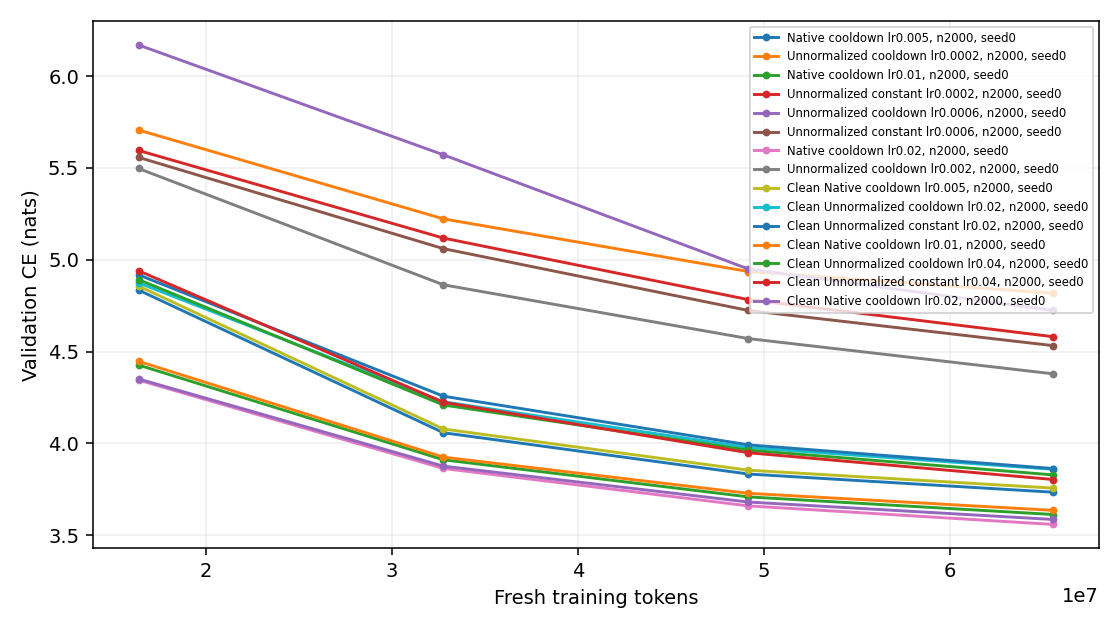
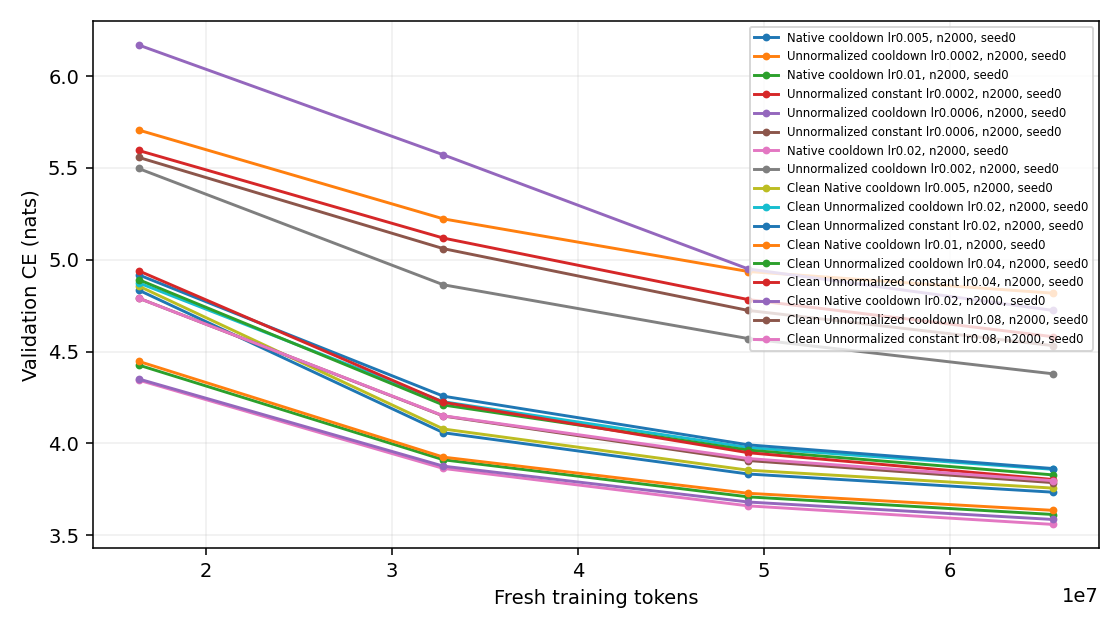
Update live Muon experiment results

diff --git a/research/unnormalized_muon/RESULTS.md b/research/unnormalized_muon/RESULTS.md
@@ -13,6 +13,8 @@ One B300 per job. CE is token cross-entropy (nats); lower is better. Rows with d
 | um-clean-grid-01-1-cooldown-lr0p04 | Clean Unnormalized cooldown | 2000 | 0 | 0.04 | 3.828638 | 1.160576 | — | 151.79 |
 | um-clean-grid-01-2-constant-lr0p04 | Clean Unnormalized constant | 2000 | 0 | 0.04 | 3.803687 | 1.153028 | — | 146.02 |
 | um-clean-grid-02-0-normalized-lr0p02 | Clean Native cooldown | 2000 | 0 | 0.02 | 3.586015 | 1.087084 | — | 147.46 |
+| um-clean-grid-02-1-cooldown-lr0p08 | Clean Unnormalized cooldown | 2000 | 0 | 0.08 | 3.786540 | 1.147820 | — | 152.80 |
+| um-clean-grid-02-2-constant-lr0p08 | Clean Unnormalized constant | 2000 | 0 | 0.08 | 3.797298 | 1.151089 | — | 148.10 |
 | um-fw-diagnostic-001 | FW backtracking | 64 | 0 | 0.02 | 6.469995 | 1.960658 | — | 95.07 |
 | um-fw-diagnostic-002 | FW backtracking | 64 | 0 | 0.02 | 6.900428 | 2.091122 | — | 117.14 |
 | um-screen-00-0-native-lr0p005 | Native cooldown | 2000 | 0 | 0.005 | 3.734536 | 1.132046 | — | 145.49 |
@@ -28,7 +30,7 @@ One B300 per job. CE is token cross-entropy (nats); lower is better. Rows with d
 
 Review of um-fw-diagnostic-001: Compiled training f0 compared against functional candidate losses; vanishing-step mismatch2-4e-5 exceeded tolerance, leading to curvature1e186 and45 skipped steps. Replaced by paired functional reference and candidates; retain all645 measured forwards and GPUcost.
 
-Conservative charged/reserved total: 2.0552 / 10 B300 GPU-hours. Includes prior smoke/failed attempts and current maximum-duration reservations. Three-slot central queue; one B300 per run.
+Conservative charged/reserved total: 1.8171 / 10 B300 GPU-hours. Includes prior smoke/failed attempts and current maximum-duration reservations. Three-slot central queue; one B300 per run.
 
 Current CLEAN comparison: no row equilibration, NorMuon, or Muon decay in either arm. Same five Polar Express steps and Frobenius correction; scale by the per-matrix nonnegative FP32 inner product of the native Nesterov input with the NS/Frobenius direction. Shape scaling occurs once outside the scalar. Legacy rows retain production extras and must be compared separately. Constant schedule changes only matrix LR; auxiliary schedules and momentum remain matched.
 
